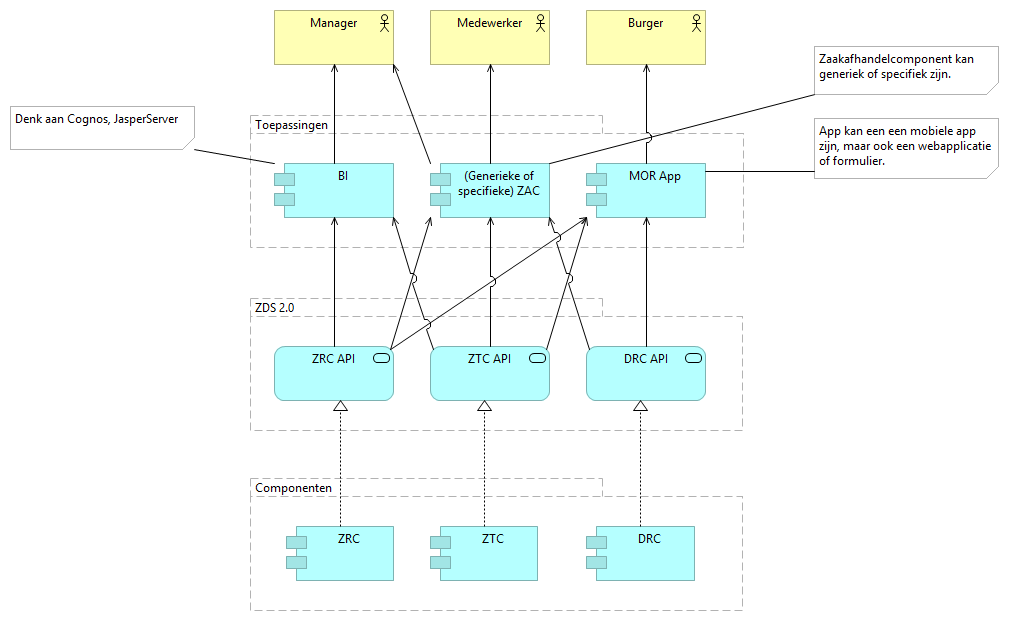
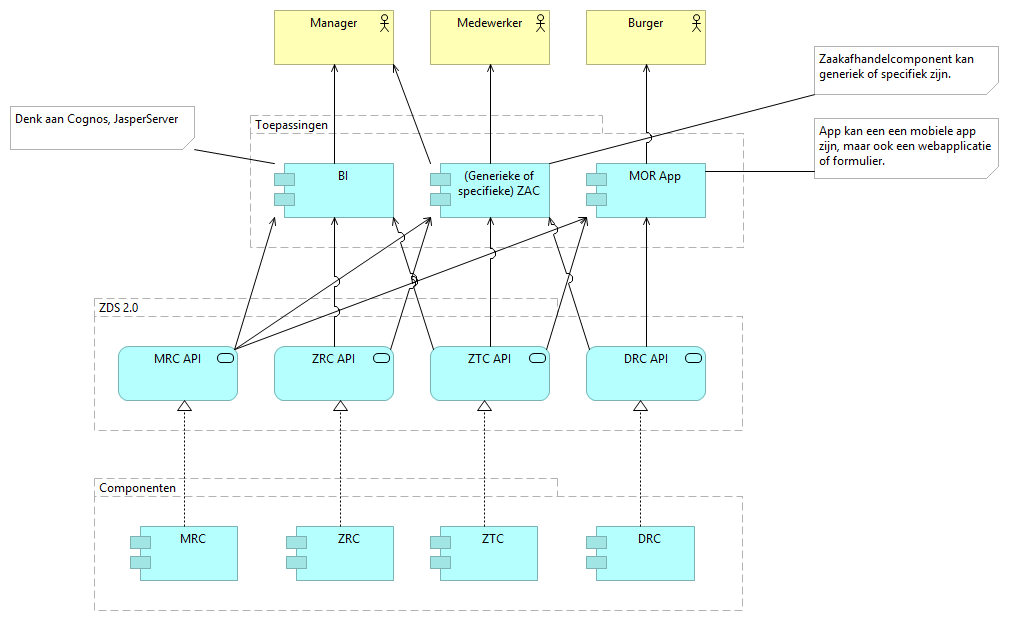
Review Jeffrey verwerkt.

diff --git a/docs/processen/Dimpact-MOR.md b/docs/processen/Dimpact-MOR.md
@@ -26,7 +26,7 @@ Daarnaast blijken de user stories van Dimpact voor de MOR samen te vallen met ee
 
 
 ## Architectuurschets
-De architectuurschets geeft de nieuwe versie van Zaak- Documentservices 2.0 weer; deze bestaat in feite uit drie API specificaties, t.w. die voor Zaaktypen, Zaken en Documenten. Deze API's worden aangeboden (gerealiseerd) door resp. de componenten Zaaktypecatalogus (ZTC), Zaakregistratiecomponent (ZRC) en Documentregistratiecomponent (DRC). Hieronder staan twee architectuurmodellen. Het linker model geeft de specifieke situatie bij Dimpact weer met gebruik van de Atos e-Suite. Het rechter model geeft de situatie weer in het algemene geval.
+De architectuurschets geeft de nieuwe versie van Zaak- Documentservices 2.0 weer; deze bestaat in feite uit meerdere API-specificaties, waaronder die voor Zaaktypen, Zaken en Documenten. Deze API's worden aangeboden (gerealiseerd) door resp. de componenten Zaaktypecatalogus (ZTC), Zaakregistratiecomponent (ZRC) en Documentregistratiecomponent (DRC). Hieronder staan twee architectuurmodellen. Het linker model geeft de specifieke situatie bij Dimpact weer met gebruik van de Atos e-Suite. Het rechter model geeft de situatie weer in het algemene geval.
 
 | ![Architectuurschets t.b.v. Dimpact MOR](./bestanden/Dimpact/apis-componenten-dimpact.png?raw=true) | ![Architectuurschets t.b.v. Dimpact MOR](./bestanden/Dimpact/apis-componenten-generiek.png?raw=true) |
 | --- | --- |
@@ -36,22 +36,24 @@ De burger kan gebruik maken van een formulier om een melding te maken, maar ook 
 
 Medewerkers maken gebruik van het Medewerkerportaal van de e-Suite. Dit is in feite een generieke Zaakafhandelcomponent (ZAC).
 
-Managers maken ook gebruik van het Medewerkerportaal o.a. om de werkvoorraad te verdelen, te plannen en om de voortgang te bewaken. Hiervoor kunnen zij gebruik maken van managementrapportages die realtime informatie uit de ZRC verwerken.
+Managers maken ook gebruik van het Medewerkerportaal o.a. om de werkvoorraad te verdelen, te plannen en om de voortgang te bewaken. Hiervoor kunnen zij gebruik maken van managementrapportages die realtime informatie uit de MRC en ZRC verwerken.
 
 
 ## Beknopte Procesbeschrijving
 Het MOR-proces is een vrij eenvoudig proces dat start met een melding door de burger. De afhandeling door ketenpartners is niet uitgewerkt.
-1. Burger vult een formulier in of gebruikt een app om een melding openbare ruimte te doen. Hij kan daarbij zien welke meldingen al gedaan zijn in het gebied waarin hij zich bevindt. Ook kan hij een bestaande melding aanklikken om deze te "liken" (bevestigen).
-2. De medewerker krijgt de melding in zijn werkvoorraad en beoordeelt deze. Ook de medewerker kan de melding op een kaartje zien samen met andere meldingen in hetzelfde gebied. Als de melding voldoende gegevens bevat voor behandeling (en valt onder verantwoordelijkheid van de gemeente), dan maakt de medewerker een zaak aan.
-3. De zaak wordt voor behandeling doorgezet naar een medewerker, afdeling (of externe ketenpartner).
-4. Als de melding is afgehandeld krijgt de burger een terugmelding (bijv. via e-mail)
+1. Burger vult een formulier in of gebruikt een app om een melding openbare ruimte te doen. Hij kan daarbij zien welke meldingen al gedaan zijn in het gebied waarin hij zich bevindt. Ook kan hij een bestaande melding aanklikken om deze te "liken" (bevestigen). Bij een bestaande melding kan hij zijn gegevens achterlaten als hij op de hoogte wil worden gehouden van de afhandeling.
+2. De melding wordt geregistreerd in een Melding Registratie Component (MRC) inclusief alle benodigde specifieke velden zoals categorie, beschrijving van het probleem, etc.
+3. De medewerker krijgt de melding in zijn werkvoorraad en beoordeelt deze. Ook de medewerker kan de melding op een kaartje zien samen met andere meldingen in hetzelfde gebied. Als de melding voldoende gegevens bevat voor behandeling (en valt onder verantwoordelijkheid van de gemeente), dan maakt de medewerker een zaak aan.
+4. De zaak wordt voor behandeling doorgezet naar een medewerker, afdeling (of externe ketenpartner). In gerval van een ketenpartner wordt bij de ZRC van de ketenpartner (in geval deze ook zaakgericht werkt) een gerelateerde zaak aangemaakt.
+5. Als de melding is afgehandeld krijgt de burger een terugmelding (bijv. via e-mail)
 
 Deze procesbeschrijving overstijgt de user stories; deze kunnen a.h.w. geplaatst worden in het proces.
+
 
 ![Bedrijfsproces i.r.t. API's](./bestanden/Dimpact/mor-proces.png?raw=true)
 
 ### Managementrapportages
-Om het operationele proces voor het afhandelen van meldingen te kunnen sturen wordt gebruik gemaakt van managementrapportages die real-time informatie geven over meldingen geaggregeerd naar verschillende kenmerken zoals categorie, status, periode, service level, etc. De volgende typen rapportages worden in [User story #137](https://github.com/VNG-Realisatie/gemma-zaken/issues/137) onderscheiden:
+Om het operationele proces voor het afhandelen van meldingen te kunnen sturen wordt gebruik gemaakt van managementrapportages die real-time informatie geven over meldingen, zaken en documenten geaggregeerd naar verschillende kenmerken zoals categorie, status, periode, service level, etc. De volgende typen rapportages worden in [User story #137](https://github.com/VNG-Realisatie/gemma-zaken/issues/137) onderscheiden:
 1. Openstaande meldingen (periode van-tot)
 2. Meldingen per wijk en periode (periode van-tot en per jaar/maand/week/dag)
 3. Meldingen per wijk en categorie (periode van-tot en per jaar/maand/week/dag)
@@ -69,8 +71,8 @@ De architectuurschets van het proces is reeds in termen van GEMMA 2 referentieco
 | [User story #169](https://github.com/VNG-Realisatie/gemma-zaken/issues/169): Als burger wil ik een melding openbare ruimte kunnen doen zodat de gemeente deze kan behandelen. | DRC API, ZRC API | Ophalen meldingen in hetzelfde gebied, Het registreren van een melding (leidt tot een document/informatieobject) |
 | [User story #139](https://github.com/VNG-Realisatie/gemma-zaken/issues/139): Als medewerker wil ik weten waar welk type melding openbare ruimte (categorie) is gedaan zodat ik de melding kan doorzetten naar de juiste behandelaar of ketenpartner. | DRC API, ZRC API | Behandelaar aanpassen, status bijwerken, ophalen meldingen in hetzelfde gebied |
 | [User story #138](https://github.com/VNG-Realisatie/gemma-zaken/issues/138): Als gemeente wil ik een melding openbare ruimte over afval in het buitengebied automatisch laten routeren naar een afdeling of ketenpartner op basis van de locatie en de categorie van de melding zodat ik een efficiëntere bedrijfsvoering verkrijg. | DRC API | Behandelaar aanpassen, status bijwerken | 
-| [User story #137](https://github.com/VNG-Realisatie/gemma-zaken/issues/137): Als manager wil ik een rapportage kunnen maken van meldingen in de openbare ruimte zodat ik kan achterhalen hoe vaak welke categorie meldingen in welke straat, buurt of wijk voorkomen. | ZRC API, DRC API, ZTC API | Selecties ophalen van zaken en/of documenten op basis van criteria als zaaktype, categorie, locatie, trefwoorden. Filteren op basis van servicenormen uit de ZTC |
-| [User story #111](https://github.com/VNG-Realisatie/gemma-zaken/issues/111): Als behandelaar van een melding openbare ruimte wil ik kunnen zoeken naar zaken en contacten die betrekking hebben op meldingen in hetzelfde gebied van dezelfde categorie of over hetzelfde probleem gaan zodat ik dubbele meldingen kan afhandelen en meldingen kan plannen en routeren voor onze medewerkers in het veld (of voor een ketenpartner). | ZRC API, DRC API | Zoeken naar meldingen op basis van zaaktype, locatie, categorie, etc.  ||
+| [User story #137](https://github.com/VNG-Realisatie/gemma-zaken/issues/137): Als manager wil ik een rapportage kunnen maken van meldingen in de openbare ruimte zodat ik kan achterhalen hoe vaak welke categorie meldingen in welke straat, buurt of wijk voorkomen. | ZRC API, DRC API, ZTC API, MRC API | Selecties ophalen van meldingen, zaken, en/of documenten op basis van criteria als zaaktype, categorie, locatie, trefwoorden. Filteren op basis van servicenormen uit de ZTC |
+| [User story #111](https://github.com/VNG-Realisatie/gemma-zaken/issues/111): Als behandelaar van een melding openbare ruimte wil ik kunnen zoeken naar zaken en contacten die betrekking hebben op meldingen in hetzelfde gebied van dezelfde categorie of over hetzelfde probleem gaan zodat ik dubbele meldingen kan afhandelen en meldingen kan plannen en routeren voor onze medewerkers in het veld (of voor een ketenpartner). | MRC API, ZRC API, DRC API | Zoeken naar meldingen en zaken op basis van locatie, categorie, etc.  ||
 
 
 
